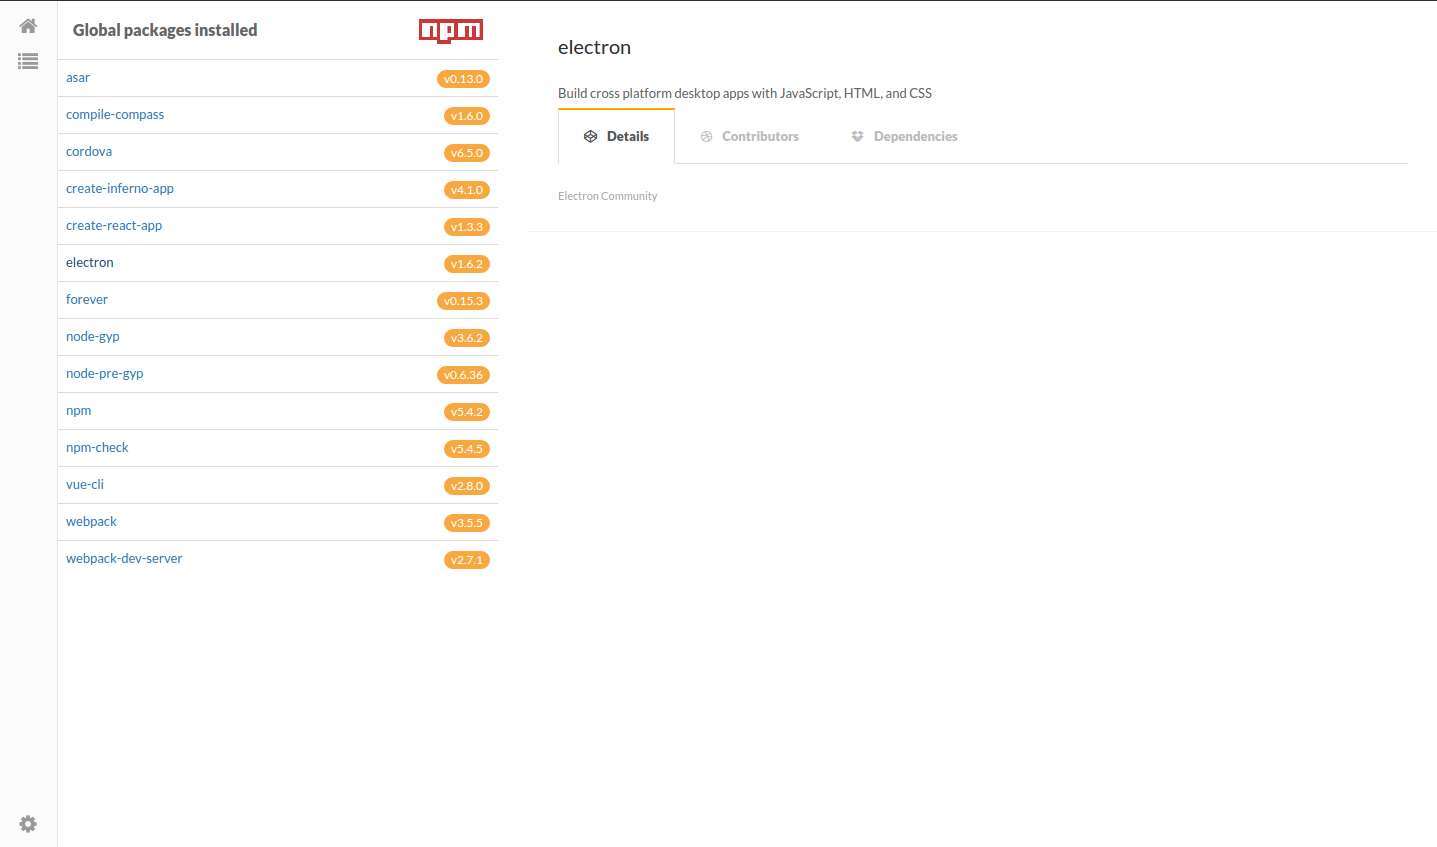
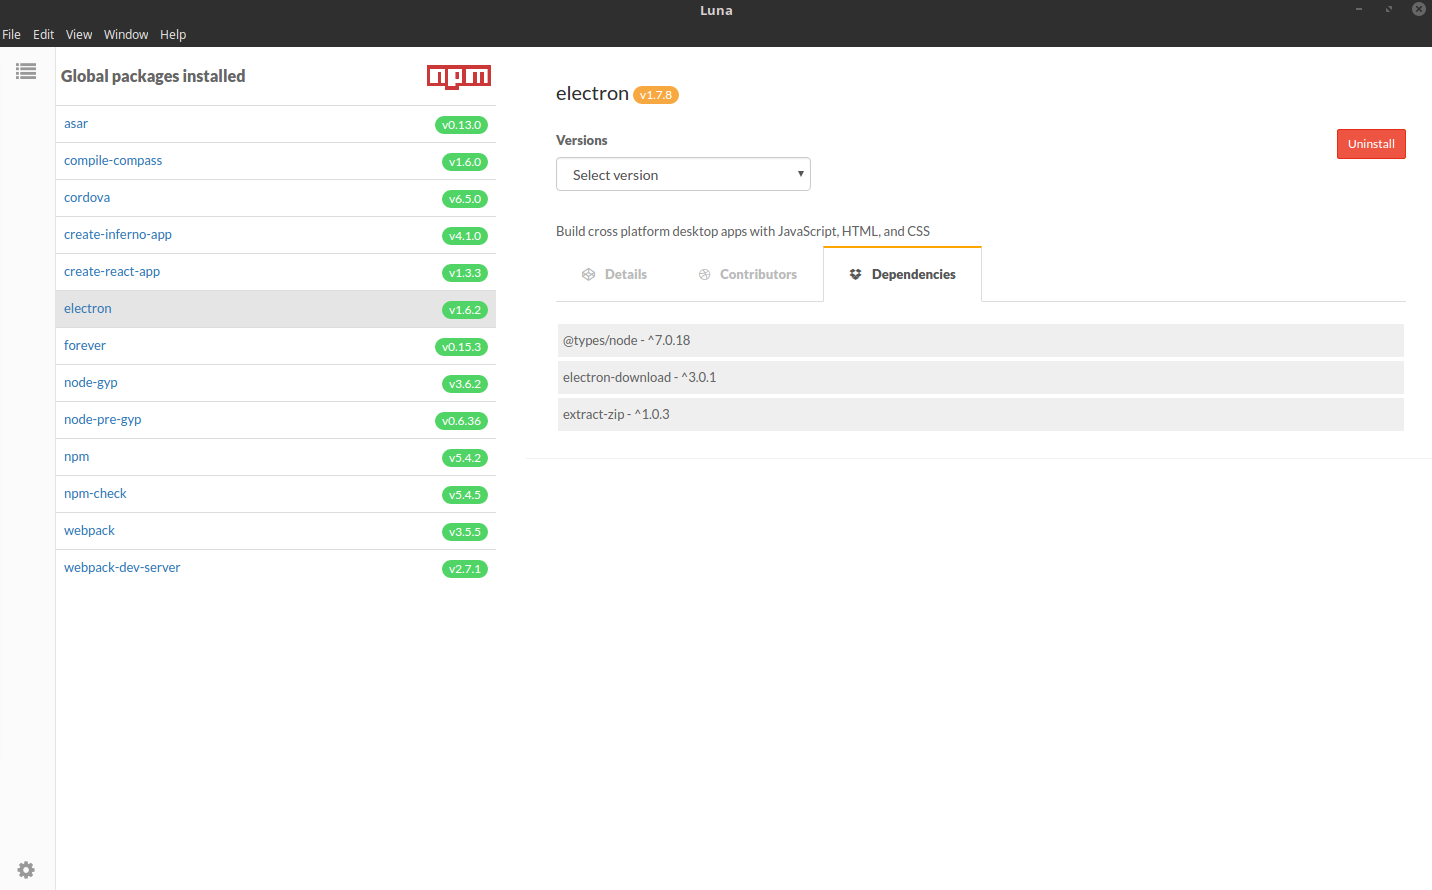
remove dashboard, add some feautures to itemDetails component

diff --git a/renderer-process/content/ItemDetails.js b/renderer-process/content/ItemDetails.js
@@ -1,6 +1,12 @@
 import {remote, ipcRenderer} from 'electron';
 import React from 'react';
 
+const OptionItems = (props) => {
+  return (
+    <option id={props.idx}>{props.name}</option>
+  )
+}
+
 const StaticListItem = (props) => {
   return (
     <li>{props.name}</li>
@@ -8,10 +14,11 @@ const StaticListItem = (props) => {
 }
 
 const StaticList = (props) => {
-  let items = props.data, data;
-  if(Object.prototype.toString.call(items) !== '[object Array]' ) {
+  let items = props.data,
+    data;
+  if (Object.prototype.toString.call(items) !== '[object Array]') {
     data = [];
-    for(let z in items) {
+    for (let z in items) {
       data.push(`${z} - ${items[z]}`);
     }
   } else {
@@ -29,13 +36,29 @@ const StaticList = (props) => {
 export default class ListItemDetails extends React.Component {
   constructor(props) {
     super(props);
+    this.state = {
+      active: null
+    }
     this.uninstall = this.uninstall.bind(this);
+    this.onChangeVersion = this.onChangeVersion.bind(this);
   }
   uninstall(e) {
-    debugger;
     e.preventDefault();
     let module = this.props.module;
     ipcRenderer.send('uninstall-module', module.name);
+  }
+  onChangeVersion(e) {
+    let version = e.target.value;
+    let module = this.props.module;
+    ipcRenderer.send('get-info-by-version', module.name, version);
+  }
+  componentDidMount() {
+    let root = this.moduleDetails;
+    if(root) {
+      ipcRenderer.on('get-info-by-version-reply', (event, module) => {
+        console.log(module);
+      });
+    }
   }
   render() {
     let module = this.props.module;
@@ -44,15 +67,35 @@ export default class ListItemDetails extends React.Component {
     }
     console.log(module);
     return (
-      <div className="module-details">
+      <div className="module-details" ref={(el) => {
+          this.moduleDetails = el;
+        }}>
         <div className="detail tile">
           <section className="detail-body">
             <div className="detail-top">
-              <h2 className="detail-heading">{module.name}</h2>
-                <span className="badge badge-orange version">
-                  v{module.version}
-                </span>
-              <a onClick={this.uninstall} href="#" style={{float: 'right'}} className="btn btn-danger btn-sm">Uninstall</a>
+              <h2 className="detail-heading">{module.name}&nbsp;<span className="badge badge-orange version">
+                v{module.version}
+              </span></h2>
+              <div className="flex-row">
+                <div className="versions">
+                  <form className="form">
+                    <div className="form-group">
+                      <label className="control-label">Versions</label>
+                      <select className="form-control" id="versions" onChange={this.onChangeVersion}>
+                        <option>Select version</option>
+                        {module.versions.map((version, idx) => {
+                          return <OptionItems name={version} key={idx}/>
+                        })}
+                      </select>
+                    </div>
+                  </form>
+                </div>
+                <div className="actions">
+                  <a onClick={this.uninstall} href="#" style={{
+                    float: 'right'
+                  }} className="btn btn-red btn-sm">Uninstall</a>
+                </div>
+              </div>
             </div>
             <p>
               {module.description}
@@ -68,10 +111,10 @@ export default class ListItemDetails extends React.Component {
                 <p className="detail-tags">{module.author}</p>
               </section>
               <section id="content2">
-                <StaticList data={module.maintainers} />
+                <StaticList data={module.maintainers}/>
               </section>
               <section id="content3">
-                <StaticList data={module.dependencies} />
+                <StaticList data={module.dependencies}/>
               </section>
             </div>
           </section>

diff --git a/assets/css/main.css b/assets/css/main.css
@@ -119,11 +119,13 @@ hr {
 .flex-row {
   display: flex;
   flex-flow: row;
+  justify-content: space-between;
 }
 
 .flex-column {
   display: flex;
   flex-flow: column;
+  justify-content: space-between;
 }
 
 /* Sidebar */
@@ -360,12 +362,11 @@ p.help {
 }
 
 .modules-list h6.title {
-  margin: 15px;
+  margin: 15px 5px;
   font-size: 12pt;
   background-image: url('../images/npm.png');
   background-repeat: no-repeat;
   background-position: right;
-
 }
 
 
@@ -444,11 +445,6 @@ p.help {
   text-decoration: none;
 }
 
-@keyframes delayedEntry {
-  0% { transform: translateY(500%); }
-  100% { transform: translateY(0%); }
-}
-
 ul.static-list {
   width: 100%;
   height: 100%;
@@ -464,4 +460,14 @@ ul.static-list li {
 }
 ul.static-list li:hover {
   background-color: #FFFFFF;
+}
+
+.detail-top .versions, .detail-top .latest-version, .detail-top > .actions {
+  position: relative;
+  display: block;
+  width:30%;
+}
+
+.detail-top .latest-version, .detail-top > .actions {
+  justify-content: center;
 }

diff --git a/renderer-process/Main.js b/renderer-process/Main.js
@@ -7,7 +7,6 @@
 
 import React from 'react';
 import {Route} from 'react-router-dom';
-import Dashboard from './pages/Dashboard';
 import Packages from './pages/Packages';
 import Settings from './pages/Settings';
 
@@ -18,8 +17,7 @@ export default class Main extends React.Component {
   render() {
     return (
       <main>
-        <Route exact path='/' component={Dashboard}/>
-        <Route path='/packages' component={Packages}/>
+        <Route path='/' component={Packages}/>
         <Route path='/settings' component={Settings}/>
       </main>
     )

diff --git a/renderer-process/common/Sidebar.js b/renderer-process/common/Sidebar.js
@@ -13,14 +13,6 @@ export default class Sidebar extends React.Component {
     return (
       <nav className="main-menu">
         <ul>
-          <li>
-            <Link to="/">
-              <i className="fa fa-home fa-2x"></i>
-              <span className="nav-text">
-                Dashboard
-              </span>
-            </Link>
-          </li>
           <li className="has-subnav">
             <Link to="/packages" href="#">
               <i className="fa fa-list fa-2x"></i>

diff --git a/main.js b/main.js
@@ -88,6 +88,17 @@ ipcMain.on('get-global-modules', (event) => {
   });
 });
 
+ipcMain.on('get-info-by-version', (event, pkgName, version) => {
+  shell.doCmd({
+    cmd: 'info',
+    pkgName: pkgName,
+    parameters: `@${version}`
+  }, (outout) => {
+    console.log(module);
+    event.sender.send('get-info-by-version-reply', module);
+  });
+});
+
 ipcMain.on('uninstall-module', (event, pkgName) => {
   shell.doCmd({
     cmd: 'uninstall',
